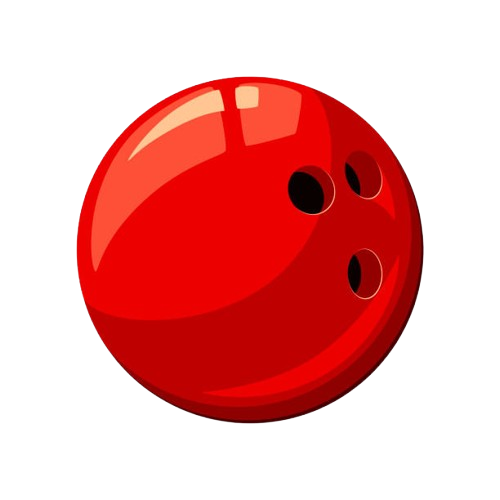
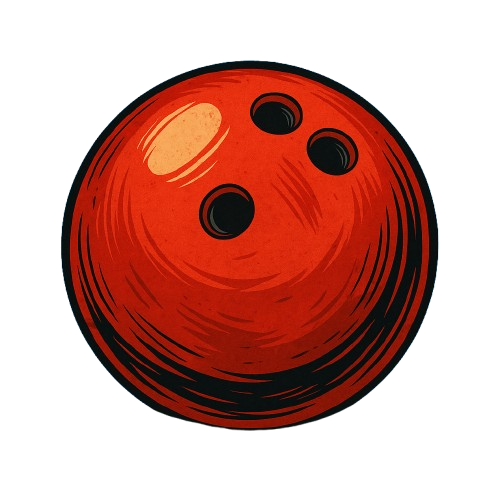
Update social image to bowling-ball-full.png
Changed the Open Graph and Twitter image meta tags in index.html to use the new bowling-ball-full.png. Added the new image file and updated the existing bowling-ball.png.

diff --git a/bowling-money-calculator/index.html b/bowling-money-calculator/index.html
@@ -53,7 +53,7 @@
       property="og:description"
       content="Calculate winnings and track money for the Thursday Night Ohana Mixed Handicap League. Tracks individual scores, handicap calculations, team standings, and prize money distribution for mixed bowling teams."
     />
-    <meta property="og:image" content="/bowling-ball.png" />
+    <meta property="og:image" content="/bowling-ball-full.png" />
 
     <!-- Twitter -->
     <meta property="twitter:card" content="summary_large_image" />
@@ -69,7 +69,7 @@
       property="twitter:description"
       content="Calculate winnings and track money for the Thursday Night Ohana Mixed Handicap League. Tracks individual scores, handicap calculations, team standings, and prize money distribution for mixed bowling teams."
     />
-    <meta property="twitter:image" content="/bowling-ball.png" />
+    <meta property="twitter:image" content="/bowling-ball-full.png" />
 
     <!-- Additional Meta Tags -->
     <meta name="robots" content="index, follow" />
